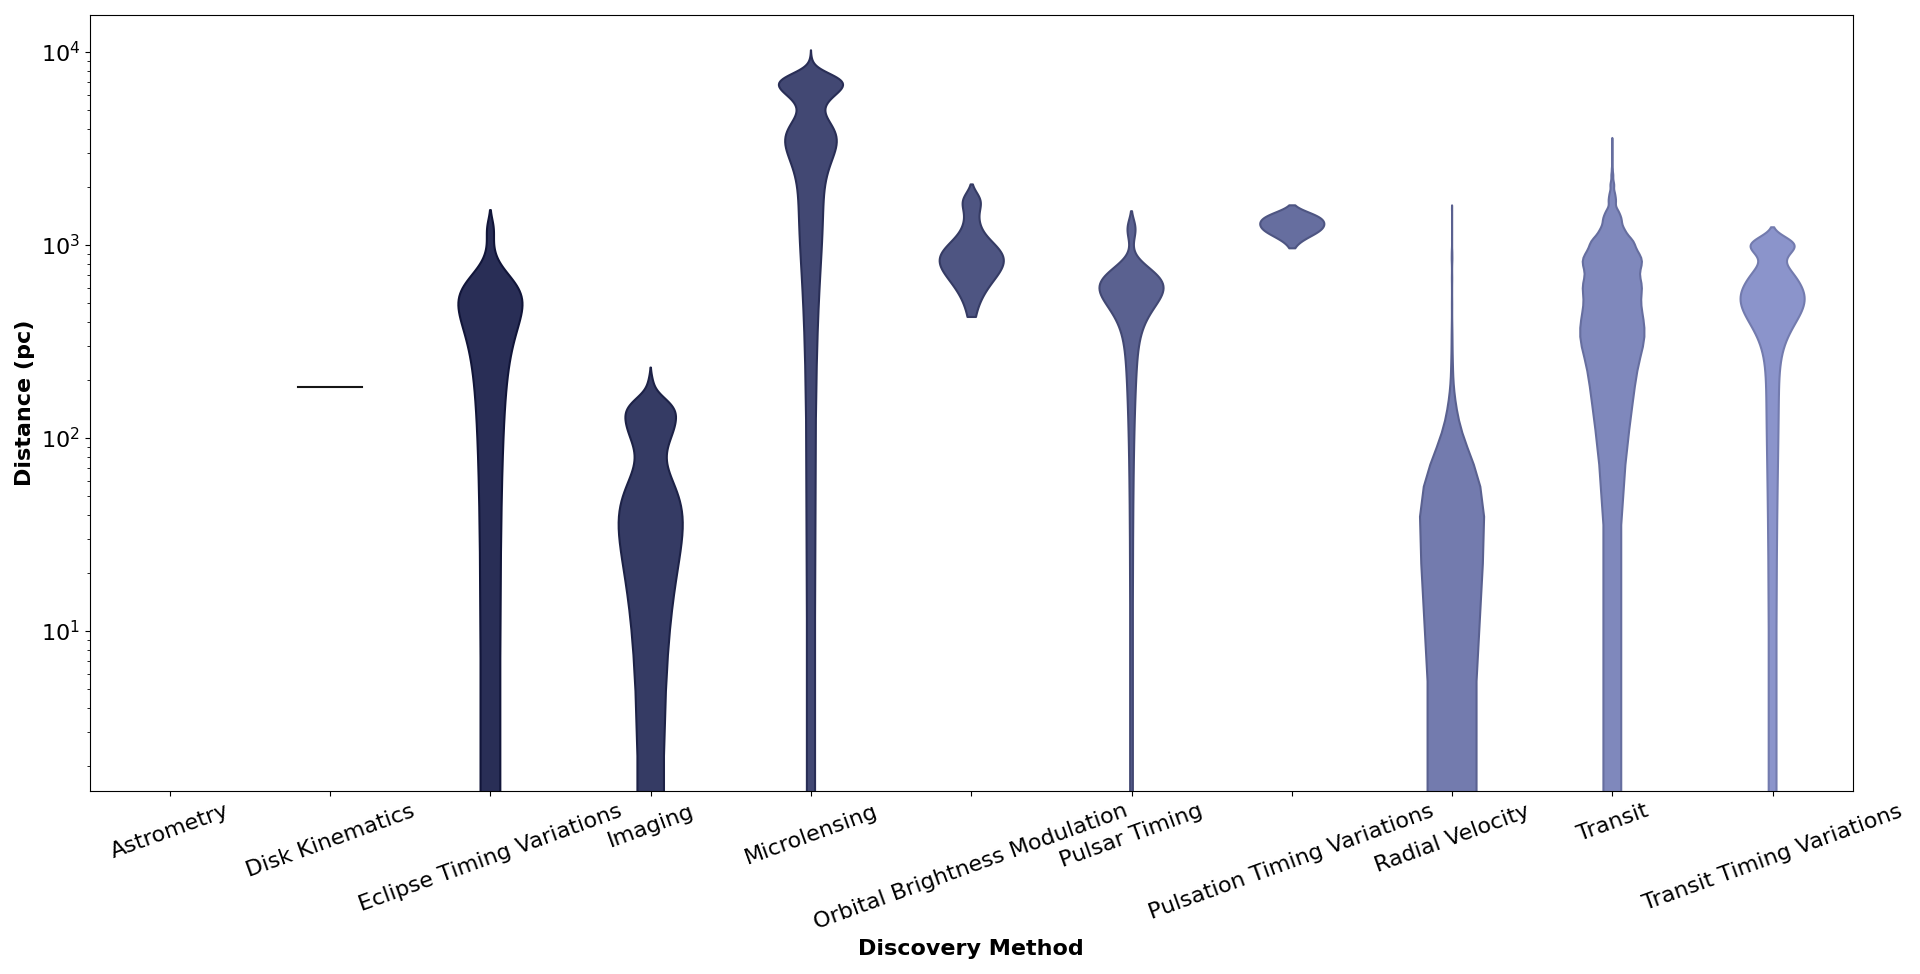
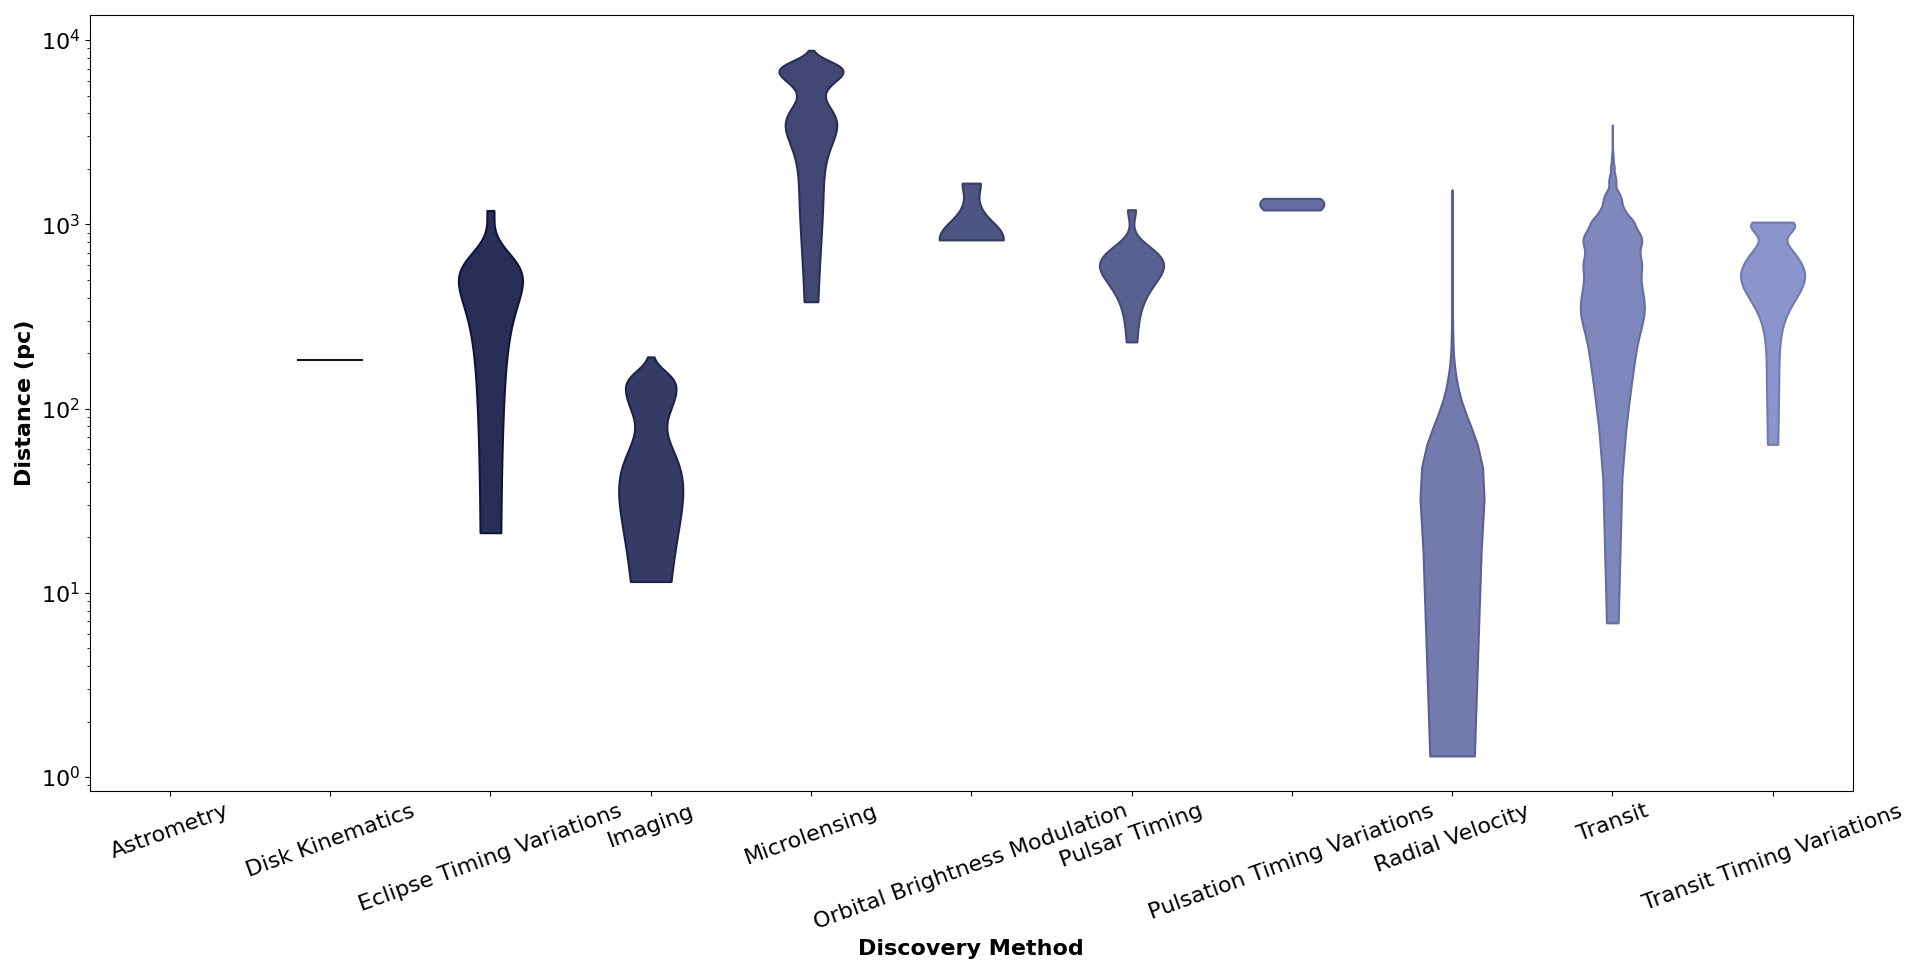
violin python plotly ok

diff --git a/Plot_types/Violin/Violin_Python_plotly.py b/Plot_types/Violin/Violin_Python_plotly.py
@@ -1,0 +1,73 @@
+
+# Paths:
+path_data = "data/"
+
+# Packages:
+import numpy as np
+import pandas as pd
+import plotly.graph_objects as go
+from matplotlib.colors import LinearSegmentedColormap, to_hex
+from math import floor, ceil
+
+# Display options:
+pd.set_option("display.width", 1200)
+pd.set_option("display.max_columns", 300)
+pd.set_option("display.max_rows", 300)
+
+# Dataset:
+df = pd.read_csv(path_data + "nasa_exoplanets.csv")
+df_varnames = pd.read_csv(path_data + "nasa_exoplanets_var_names.csv")
+
+# Variables:
+cat_var = "discoverymethod"
+cat_var_name = df_varnames.loc[(df_varnames["var"] == cat_var), ["var_name"]].values[0][0]
+num_var = "sy_dist"
+num_var_name = df_varnames.loc[(df_varnames["var"] == num_var), ["var_name"]].values[0][0]
+
+# Adapt the data:
+df_plot = df.loc[:, [cat_var, num_var]].sort_values(cat_var)
+
+# Deal with nan:
+df_plot[cat_var] = df_plot[cat_var].fillna("NA")
+
+# Plot:
+lvls = df_plot[cat_var].unique()
+n_levels = len(lvls)
+cmap = LinearSegmentedColormap.from_list("my_palette", ["#111539", "#97A1D9"])
+my_palette = [to_hex(j) for j in  [cmap(i/n_levels) for i in np.array(range(n_levels))]]
+
+violins = []
+for l in range(n_levels):
+    violins += [
+        go.Violin(
+            x0 = lvls[l],
+            y = df_plot.loc[df_plot.loc[:, cat_var] == lvls[l], num_var].values,
+            box_visible = False,
+            width = 0.4,
+            line_color = my_palette[l],
+            fillcolor = my_palette[l],
+            opacity = 1,
+            meanline_visible = False,
+            spanmode = "hard"
+       )
+    ]
+fig = go.Figure(data = violins)
+fig.update_yaxes(
+    type = "log"
+)
+fig.update_layout(
+    xaxis_title = "<b>" + cat_var_name + "</b>" ,
+    yaxis_title = "<b>" + num_var_name + "</b>",
+    font = dict(
+        size = 18
+    ),
+    showlegend = False,
+    plot_bgcolor = "white",
+    hoverlabel = dict(
+        font_size = 18,
+        font_family = "Rockwell"
+    )
+)
+fig.show()
+
+

diff --git a/Plot_types/Boxplot/Boxplot_Python_plotly.py b/Plot_types/Boxplot/Boxplot_Python_plotly.py
@@ -47,7 +47,7 @@ for l in range(n_levels):
             width = 0.4,
             boxpoints = "outliers",
             marker = {
-                "outliercolor": outlier_color, # there may be a plotly.go bug here
+                "outliercolor": outlier_color,
                 "color": my_palette[l],
                 "size": 7,
                 "opacity": 0.5

diff --git a/Plot_types/Violin/Violin_Python_seaborn.py b/Plot_types/Violin/Violin_Python_seaborn.py
@@ -49,9 +49,10 @@ sns.violinplot(
     dodge = False,
     palette = my_palette,
     saturation = 1,
-    ax = ax,
     width = 0.4,
-    inner = None
+    inner = None,
+    cut = 0,
+    ax = ax
 )
 for i, art in enumerate(ax.get_children()):
     if isinstance(art, PolyCollection):
